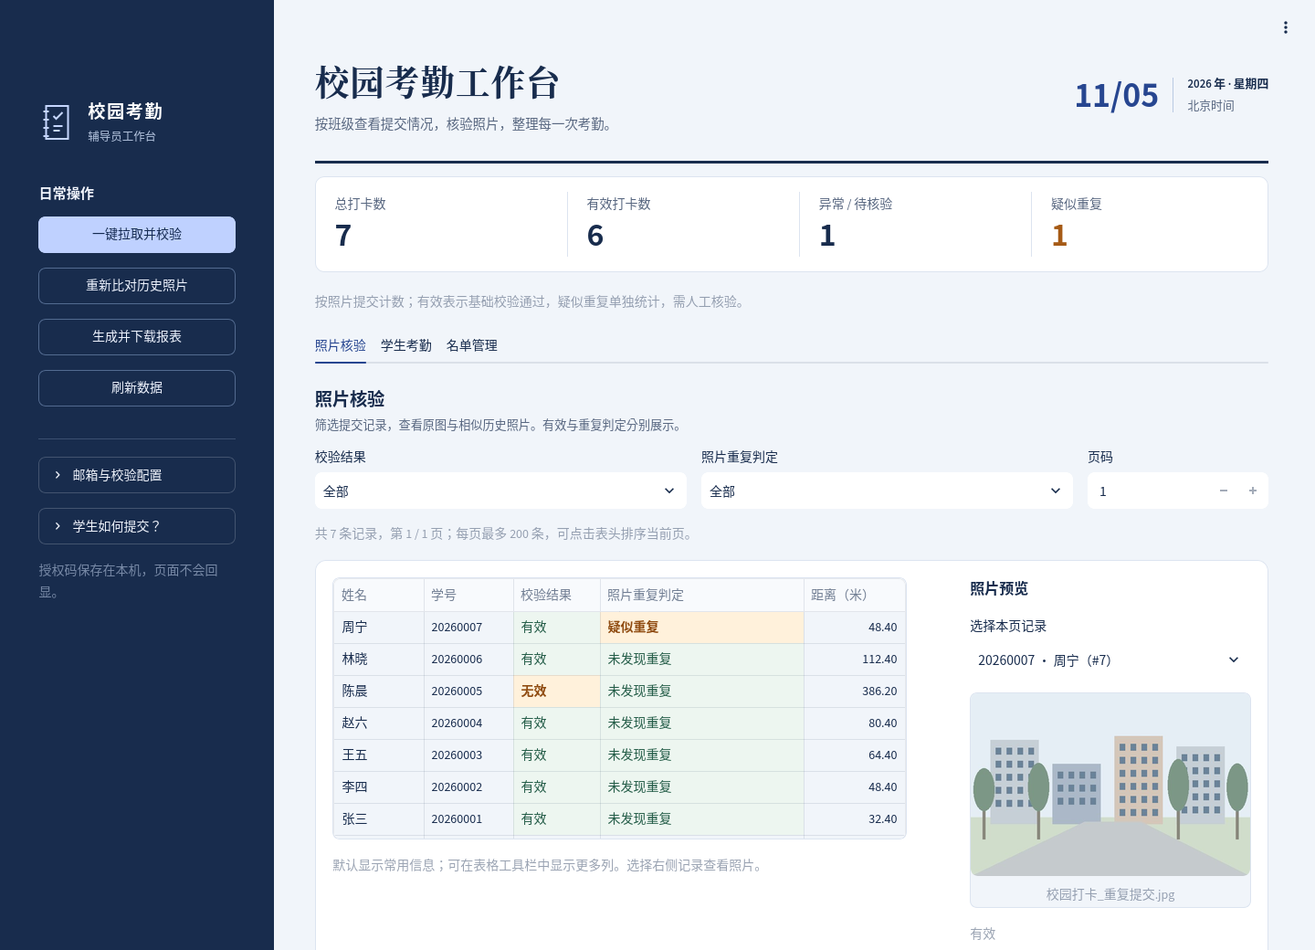
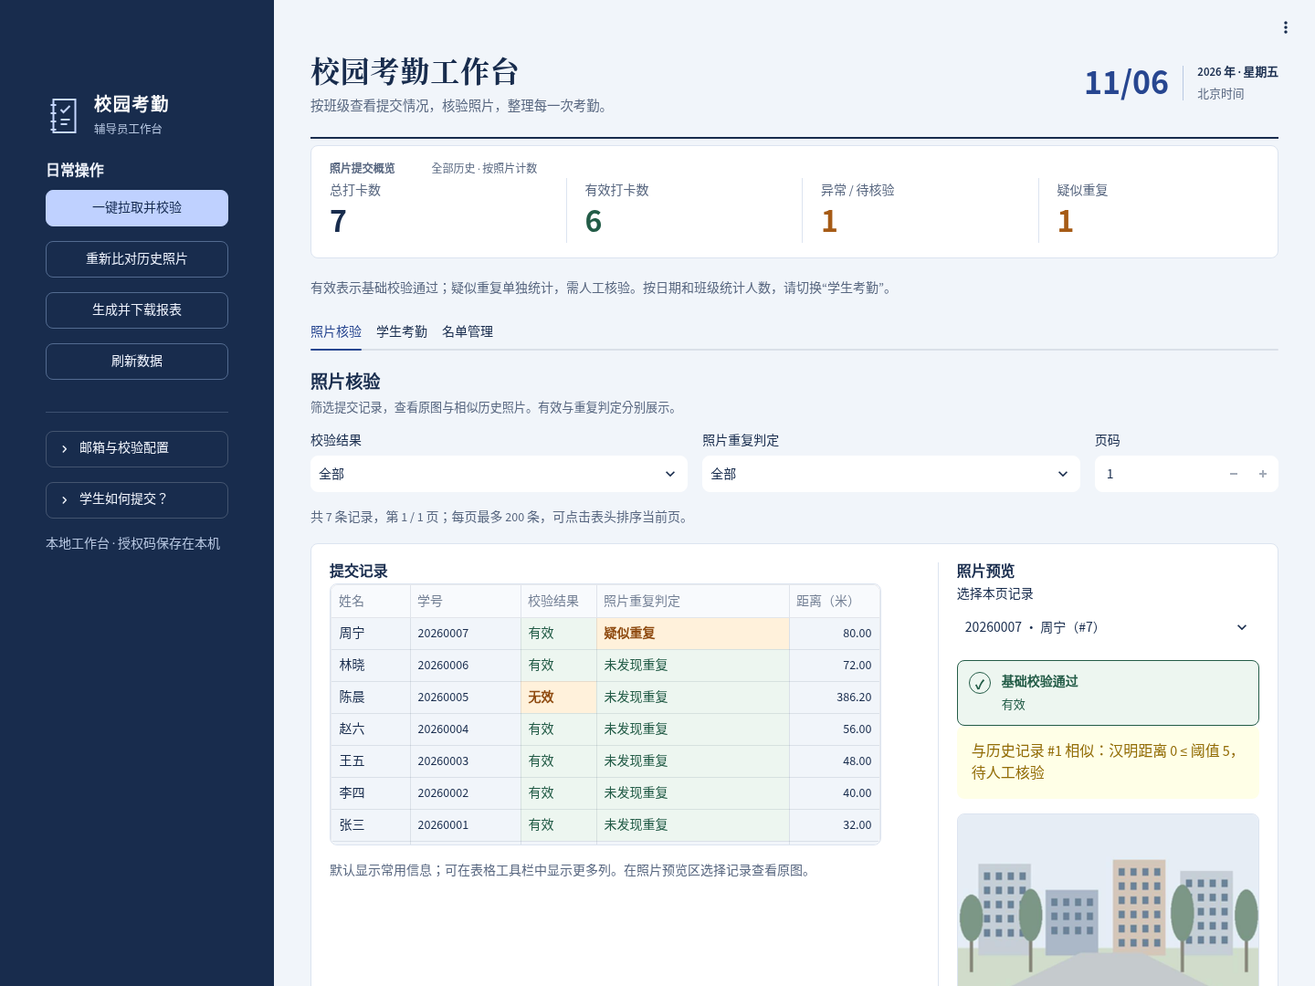
完善 UI 界面

diff --git a/assets/workspace.css b/assets/workspace.css
@@ -7,6 +7,11 @@
   --attendance-muted: #586780;
   --attendance-rule: #dce4f0;
   --attendance-amber: #a65b16;
+  --attendance-success: #235c47;
+  --attendance-success-bg: #edf6f0;
+  --attendance-warning-bg: #fff5e6;
+  --attendance-focus: #5276c4;
+  --attendance-radius: .5rem;
 }
 
 .stApp {
@@ -19,26 +24,26 @@
 }
 [data-testid="stMainBlockContainer"] {
   max-width: 1560px;
-  padding: 2.3rem 2.8rem 3rem;
+  padding: 2rem 2.5rem 3rem;
 }
 [data-testid="stHeader"] { background: var(--attendance-mist); }
 .attendance-masthead {
   display: flex;
   align-items: center;
   justify-content: space-between;
-  gap: 2rem;
-  padding: .4rem 0 1.7rem;
-  border-bottom: 3px solid var(--attendance-ink);
-  margin-bottom: .65rem;
+  gap: 1.5rem;
+  padding: .25rem 0 1.25rem;
+  border-bottom: 2px solid var(--attendance-ink);
+  margin-bottom: .25rem;
 }
 .attendance-masthead h1 {
   font-family: "Noto Serif CJK SC", "Source Han Serif SC", "Songti SC", SimSun, serif;
-  font-size: clamp(1.7rem, 2.8vw, 2.35rem);
+  font-size: clamp(1.5rem, 2.5vw, 2rem);
   line-height: 1.5;
   font-weight: 650;
   letter-spacing: .025em;
   padding: 0;
-  margin: 0 0 .45rem;
+  margin: 0 0 .25rem;
 }
 .attendance-masthead p { color: var(--attendance-muted); margin: 0; font-size: .9rem; line-height: 1.8; }
 .attendance-date {
@@ -61,33 +66,49 @@
 .attendance-section-heading { margin: .45rem 0 .75rem; }
 .attendance-section-heading h2 { font-size: 1.2rem; font-weight: 650; margin: 0 0 .3rem; padding: 0; }
 .attendance-section-heading p { font-size: .82rem; color: var(--attendance-muted); line-height: 1.8; margin: 0; max-width: 70ch; }
+.attendance-panel-title { font-size: 1rem !important; font-weight: 650; margin: 0; padding: 0 0 .25rem !important; }
+.attendance-overview-heading { display: flex; flex-wrap: wrap; align-items: baseline; gap: .25rem 1rem; }
+.attendance-overview-heading h2 { font-size: .9rem; margin: 0; padding: 0; font-weight: 650; }
+.attendance-overview-heading span { color: var(--attendance-muted); font-size: .75rem; }
 
 /* 概览是一个连续的数据带，避免每个数字各占一张卡片。 */
 .st-key-overview {
-  padding: 1rem 1.3rem;
+  padding: 1rem 1.25rem;
   background: var(--attendance-paper);
   border: 1px solid var(--attendance-rule);
-  border-radius: 10px;
+  border-radius: var(--attendance-radius);
   margin: .2rem 0 .3rem;
 }
-.st-key-overview [data-testid="stColumn"] + [data-testid="stColumn"] { border-left: 1px solid var(--attendance-rule); padding-left: 1.3rem; }
+.st-key-overview [data-testid="stColumn"] + [data-testid="stColumn"] { border-left: 1px solid var(--attendance-rule); padding-left: 1.25rem; }
 [data-testid="stMetricLabel"] { color: var(--attendance-muted); font-size: .82rem; }
 [data-testid="stMetricValue"] { font-variant-numeric: tabular-nums; font-size: 2rem; font-weight: 600; line-height: 1.35; }
-.st-key-overview [data-testid="stColumn"]:last-child [data-testid="stMetricValue"] { color: var(--attendance-amber); }
+.st-key-overview [data-testid="stColumn"]:nth-child(2) [data-testid="stMetricValue"] { color: var(--attendance-success); }
+.st-key-overview [data-testid="stColumn"]:nth-child(n+3) [data-testid="stMetricValue"] { color: var(--attendance-amber); }
+.st-key-student_metrics { background: var(--attendance-paper); border: 1px solid var(--attendance-rule); border-radius: var(--attendance-radius); padding: 1rem 1.25rem; }
+.st-key-student_metrics > [data-testid="stLayoutWrapper"] + [data-testid="stLayoutWrapper"] { border-top: 1px solid var(--attendance-rule); padding-top: 1rem; }
+.st-key-student_metrics [data-testid="stMetricValue"] { font-size: 1.75rem; }
 [data-testid="stCaptionContainer"], [data-testid="stCaptionContainer"] p { color: var(--attendance-muted); line-height: 1.7; }
+[data-testid="stCaptionContainer"] { opacity: 1; }
 [data-testid="stTabs"] [data-baseweb="tab-list"] { gap: 1.7rem; background: transparent; }
 [data-testid="stTabs"] [data-baseweb="tab"] { padding: .7rem .2rem .85rem; height: auto; font-weight: 600; }
 [data-testid="stTabs"] [data-baseweb="tab"] p { font-size: .97rem; }
-[data-testid="stTabs"] [role="tabpanel"] { padding-top: 1.25rem; }
+[data-testid="stTabs"] [role="tabpanel"] { padding-top: 1rem; }
 .st-key-record_workspace {
   background: var(--attendance-paper);
-  padding: 1.15rem;
+  padding: 1.25rem;
   border-color: var(--attendance-rule);
-  border-radius: 12px;
+  border-radius: var(--attendance-radius);
 }
-.st-key-photo_review { padding-left: .45rem; }
+.st-key-photo_review { padding-left: 1.25rem; border-left: 1px solid var(--attendance-rule); }
 .st-key-photo_review [data-testid="stImage"] { background: var(--attendance-mist); border: 1px solid var(--attendance-rule); border-radius: 8px; overflow: hidden; }
-.st-key-photo_review [data-testid="stImage"] img { max-height: 320px; object-fit: contain; }
+.st-key-photo_review [data-testid="stImage"] img { max-height: 400px; object-fit: contain; }
+.st-key-photo_review [data-testid="stImageCaption"] { overflow-wrap: anywhere; padding: .5rem; }
+.attendance-verdict { display: flex; align-items: flex-start; gap: .75rem; padding: .75rem; border: 1px solid currentColor; border-radius: var(--attendance-radius); overflow-wrap: anywhere; }
+.attendance-verdict-success { color: var(--attendance-success); background: var(--attendance-success-bg); }
+.attendance-verdict-warning { color: var(--attendance-amber); background: var(--attendance-warning-bg); }
+.attendance-verdict-symbol { display: grid; place-items: center; flex: 0 0 1.5rem; height: 1.5rem; border: 1px solid currentColor; border-radius: 50%; font-weight: 700; }
+.attendance-verdict strong { display: block; font-size: .875rem; line-height: 1.5; }
+.attendance-verdict p { margin: .25rem 0 0; font-size: .8125rem; line-height: 1.65; color: inherit; }
 .attendance-photo-empty {
   display: grid;
   place-items: center;
@@ -105,21 +126,22 @@
 [data-testid="stAlert"] { border-radius: 8px; }
 [data-testid="stExpander"] { border-color: var(--attendance-rule); border-radius: 8px; }
 button, input, select, textarea, [role="tab"], [role="combobox"] { scroll-margin-top: 5rem; }
-button:focus-visible, input:focus-visible, a:focus-visible, [role="tab"]:focus-visible {
-  outline: 3px solid #5276c4 !important;
+button:focus-visible, input:focus-visible, textarea:focus-visible, summary:focus-visible, a:focus-visible, [role="tab"]:focus-visible, [role="combobox"]:focus-visible {
+  outline: 3px solid var(--attendance-focus) !important;
   outline-offset: 3px;
 }
 
 /* 侧栏作为日常操作台；配置置后，输入依然使用原生可访问控件。 */
 [data-testid="stSidebar"] { background: var(--attendance-ink); border-right: none; }
-[data-testid="stSidebarUserContent"] { padding: 1.8rem 1.4rem 2rem; }
-.attendance-brand { display: flex; gap: .8rem; align-items: center; margin: .15rem 0 1.9rem; }
+[data-testid="stSidebarUserContent"] { padding: 1.5rem 1.25rem 2rem; }
+.attendance-brand { display: flex; gap: .75rem; align-items: center; margin: 0 0 1.5rem; }
 .attendance-brand-mark { color: #c6d7ff; width: 41px; height: 46px; flex-shrink: 0; }
 .attendance-brand strong { display: block; font-size: 1.2rem; font-weight: 650; letter-spacing: .08em; color: #ffffff; }
 .attendance-brand span { color: #b7c7e1; font-size: .78rem; display: block; margin-top: .15rem; }
 [data-testid="stSidebar"] [data-testid="stCaptionContainer"],
 [data-testid="stSidebar"] [data-testid="stCaptionContainer"] p { color: #b7c7e1; }
 [data-testid="stSidebar"] h3 { font-size: .95rem; font-weight: 600; }
+[data-testid="stSidebar"] .attendance-panel-title { margin-bottom: .5rem; }
 [data-testid="stSidebar"] hr { border-color: #3c5070; margin: 1.2rem 0; }
 [data-testid="stSidebar"] [data-testid="stExpander"] { border-color: #455a7c; background: transparent; }
 [data-testid="stSidebar"] [data-testid="stForm"] { border: 0; padding: 0; }
@@ -136,23 +158,26 @@ button:focus-visible, input:focus-visible, a:focus-visible, [role="tab"]:focus-v
   [data-testid="stMainBlockContainer"] { padding-left: 1.5rem; padding-right: 1.5rem; }
   .attendance-masthead { gap: 1rem; }
   .attendance-date-day { font-size: 2rem; }
-  .st-key-overview { padding: .9rem 1rem; }
-  .st-key-overview [data-testid="stColumn"] + [data-testid="stColumn"] { padding-left: .6rem; }
+  .st-key-overview { padding: 1rem; }
+  .st-key-overview [data-testid="stColumn"] + [data-testid="stColumn"] { padding-left: .5rem; }
+  .st-key-record_workspace > [data-testid="stLayoutWrapper"] > [data-testid="stHorizontalBlock"] { flex-wrap: wrap; }
+  .st-key-record_workspace > [data-testid="stLayoutWrapper"] > [data-testid="stHorizontalBlock"] > [data-testid="stColumn"] { flex: 1 1 100%; min-width: 100%; }
+  .st-key-photo_review { padding: 1rem 0 0; border-left: 0; border-top: 1px solid var(--attendance-rule); }
 }
 @media (max-width: 760px) {
   [data-testid="stMainBlockContainer"] { padding: 3.6rem 1rem 2rem; }
-  .attendance-masthead { align-items: flex-start; flex-direction: column; gap: 1rem; padding-bottom: 1.1rem; }
+  .attendance-masthead { align-items: flex-start; flex-direction: column; gap: 1rem; padding-bottom: 1rem; }
   .attendance-date-day { font-size: 1.7rem; }
   .attendance-date-detail { font-size: .75rem; }
-  .st-key-overview [data-testid="stHorizontalBlock"] { flex-wrap: wrap; gap: 1rem; }
-  .st-key-overview [data-testid="stColumn"] { flex: 1 1 calc(50% - 1rem); min-width: calc(50% - 1rem); }
+  .st-key-overview [data-testid="stHorizontalBlock"], .st-key-student_metrics [data-testid="stHorizontalBlock"] { flex-wrap: wrap; gap: 1rem; }
+  .st-key-overview [data-testid="stColumn"], .st-key-student_metrics [data-testid="stColumn"] { flex: 1 1 calc(50% - 1rem); min-width: calc(50% - 1rem); }
   .st-key-overview [data-testid="stColumn"] + [data-testid="stColumn"] { border-left: none; padding-left: 0; }
   [data-testid="stMetricValue"] { font-size: 1.7rem; }
   [data-testid="stTabs"] [data-baseweb="tab-list"] { gap: 1.1rem; }
-  .st-key-record_workspace { padding: .8rem; }
-  .st-key-record_workspace > [data-testid="stVerticalBlock"] > [data-testid="stHorizontalBlock"] { flex-wrap: wrap; }
-  .st-key-record_workspace > [data-testid="stVerticalBlock"] > [data-testid="stHorizontalBlock"] > [data-testid="stColumn"] { flex: 1 1 100%; min-width: 100%; }
-  .st-key-photo_review { padding-left: 0; }
+  .st-key-record_workspace { padding: .75rem; }
+  [data-testid="stMetricLabel"] p { white-space: normal; }
+  [data-testid="stTabs"] [data-baseweb="tab"] { min-height: 44px; }
+  [data-testid="stSidebar"] { max-width: calc(100vw - 2rem); }
 }
 @media (prefers-reduced-motion: reduce) {
   *, *::before, *::after { animation: none !important; transition: none !important; scroll-behavior: auto !important; }

diff --git a/app.py b/app.py
@@ -18,7 +18,7 @@ from src.report_generator import generate_report, generate_student_attendance_re
 from src.photo_deduplicator import validate_threshold
 from src.web_helpers import safe_photo_path
 from src.student_roster import parse_student_roster
-from src.ui import load_styles, masthead, photo_placeholder, section_heading, sidebar_brand, styled_statuses
+from src.ui import load_styles, masthead, photo_placeholder, photo_verdict, section_heading, sidebar_brand, styled_statuses
 
 
 WORK_DIR = Path(os.environ.get("ATTENDANCE_WORK_DIR", Path(__file__).resolve().parent)).resolve()
@@ -64,7 +64,7 @@ def settings_panel():
             start = st.text_input("窗口开始", value=business["attendance_start"], placeholder="2026-11-05T08:00:00+08:00")
             end = st.text_input("窗口结束", value=business["attendance_end"], placeholder="2026-11-05T10:00:00+08:00")
             photo_tz = st.text_input("照片默认时区", value=business["photo_timezone"])
-            st.caption("开始与结束均留空时，校验照片软件信息及坐标。")
+            st.caption("请填写完整日期、时间及时区，例如 2026-11-06T08:00:00+08:00。开始与结束均留空可关闭拍摄时间校验。")
         save = st.form_submit_button("保存配置", use_container_width=True)
     st.caption("新配置用于后续新提交，已有校验结果不会重新计算。")
     if save:
@@ -86,7 +86,7 @@ def sidebar(store):
     with st.sidebar:
         sidebar_brand()
 
-        st.subheader("日常操作")
+        st.markdown('<h2 class="attendance-panel-title">日常操作</h2>', unsafe_allow_html=True)
         if st.button("一键拉取并校验", type="primary", use_container_width=True, disabled=store is None):
             progress = None
             try:
@@ -156,7 +156,7 @@ def sidebar(store):
         with st.expander("学生如何提交？"):
             st.write("邮件主题填写“姓名+学号”，例如 张三+0020230001，附上 JPG/JPEG 原图。")
             st.caption("请发送原图，聊天软件压缩或截图可能丢失定位和拍摄时间。")
-        st.caption("授权码保存在本机，页面不会回显。")
+        st.caption("本地工作台 · 授权码保存在本机")
 
 
 def roster_import(store):
@@ -234,18 +234,21 @@ def student_statistics(store):
                                   format_func=lambda value: "全部班级" if value is None else value or "未分班")
     result = store.student_attendance(day.isoformat(), class_name=selected_class)
     stats = result["statistics"]
-    for column, label, key in zip(st.columns(5), ("名单人数", "已提交人数", "校验通过人数", "待核验人数", "未提交人数"),
-                                  ("total", "submitted", "passed", "pending", "missing")):
-        column.metric(label, stats[key])
-    for column, label, key in zip(st.columns(3), ("老师代签人数", "请假人数", "出勤人数（含代签）"),
-                                  ("signed", "leave", "present")):
-        column.metric(label, stats[key])
-    st.caption("按北京时间收件日期统计，单位为学生；同一学生多张照片只计一人。姓名须与名单一致，至少一张照片通过基础校验才计为通过。")
-    st.caption("姓名不匹配或照片未通过归入待核验；照片重复与 pHash 结果仍在打卡记录中单独展示。")
-    st.caption("老师代签计为出勤，请假单独统计；两者均不再计入未提交或待核验。已提交人数仅表示收到照片。")
+    with st.container(key="student_metrics"):
+        for column, label, key in zip(st.columns(5), ("名单人数", "已提交人数", "校验通过人数", "待核验人数", "未提交人数"),
+                                      ("total", "submitted", "passed", "pending", "missing")):
+            column.metric(label, stats[key])
+        for column, label, key in zip(st.columns(3), ("老师代签人数", "请假人数", "出勤人数（含代签）"),
+                                      ("signed", "leave", "present")):
+            column.metric(label, stats[key])
+    st.caption(f"统计范围：{day:%Y年%m月%d日} · {(selected_class or '未分班') if selected_class is not None else '全部班级'} · 按学生人数统计")
+    with st.expander("考勤人数如何计算？"):
+        st.write("按北京时间收件日期统计，单位为学生；同一学生多张照片只计一人。姓名须与名单一致，至少一张照片通过基础校验才计为通过。")
+        st.write("姓名不匹配或照片未通过归入待核验；照片重复判定仍在照片核验中单独展示。")
+        st.write("老师代签计为出勤，请假单独统计；两者均不再计入未提交或待核验。已提交人数仅表示收到照片。")
     teacher_attendance_panel(store, day, result["students"])
     if result["classes"]:
-        st.markdown("**班级汇总**")
+        st.markdown('<h3 class="attendance-panel-title">班级汇总</h3>', unsafe_allow_html=True)
         class_frame = pd.DataFrame(result["classes"])
         class_frame["class_name"] = class_frame["class_name"].replace("", "未分班")
         st.dataframe(class_frame.rename(columns={"class_name": "班级", "total": "名单人数", "submitted": "已提交人数",
@@ -288,11 +291,12 @@ def overview(store):
     with st.spinner("正在读取考勤数据…"):
         stats = store.statistics()
     with st.container(key="overview"):
+        st.markdown('<div class="attendance-overview-heading"><h2>照片提交概览</h2><span>全部历史 · 按照片计数</span></div>', unsafe_allow_html=True)
         metrics = st.columns(4)
         for column, label, key in zip(metrics[:3], ("总打卡数", "有效打卡数", "异常 / 待核验"), ("total", "valid", "invalid")):
             column.metric(label, stats[key])
         metrics[3].metric("疑似重复", store.count_records(duplicate_status="疑似重复"))
-    st.caption("按照片提交计数；有效表示基础校验通过，疑似重复单独统计，需人工核验。")
+    st.caption("有效表示基础校验通过；疑似重复单独统计，需人工核验。按日期和班级统计人数，请切换“学生考勤”。")
 
 
 def dashboard(store):
@@ -322,8 +326,9 @@ def dashboard(store):
             st.info("还没有打卡记录。请在左侧保存邮箱配置，收到学生照片后点击“一键拉取并校验”。")
         return
     with st.container(key="record_workspace", border=True):
-        table, preview = st.columns([1.9, 1], gap="large")
+        table, preview = st.columns([1.65, 1], gap="large")
         with table:
+            st.markdown('<h3 class="attendance-panel-title">提交记录</h3>', unsafe_allow_html=True)
             frame = pd.DataFrame(rows)
             frame["校验结果"] = frame["is_valid"].map({True: "有效", False: "无效"})
             names = {"id": "编号", "student_id": "学号", "student_name": "姓名", "email_time": "收件时间",
@@ -347,7 +352,7 @@ def dashboard(store):
                                         "学号": st.column_config.TextColumn(width=110)})
             st.caption("默认显示常用信息；可在表格工具栏中显示更多列。在照片预览区选择记录查看原图。")
         with preview, st.container(key="photo_review"):
-            st.markdown("**照片预览**")
+            st.markdown('<h3 class="attendance-panel-title">照片预览</h3>', unsafe_allow_html=True)
             record_ids = [row["id"] for row in rows]
             if st.session_state.get("photo_record") not in record_ids:
                 st.session_state["photo_record"] = record_ids[0]
@@ -355,6 +360,9 @@ def dashboard(store):
                                        format_func=lambda value: next(f"{row['student_id']} · {row['student_name']}（#{value}）"
                                                                       for row in rows if row["id"] == value))
             selected = next(row for row in rows if row["id"] == selected_id)
+            photo_verdict(selected["is_valid"], selected["reason"])
+            if selected["duplicate_status"] in ("疑似重复", "校验异常"):
+                st.warning(selected["duplicate_reason"])
             photo = safe_photo_path(selected.get("photo_path"), WORK_DIR)
             if photo is None:
                 photo_placeholder()
@@ -362,10 +370,10 @@ def dashboard(store):
             else:
                 try:
                     with st.spinner("正在加载照片…"):
-                        st.image(str(photo), caption=selected["photo_name"], width="stretch")
+                        st.image(str(photo), caption=selected["photo_name"], width="stretch",
+                                 alt=f"{selected['student_name']}提交的考勤照片：{selected['photo_name']}")
                 except Exception as error:
                     show_error("照片预览", error)
-            st.caption(selected["reason"])
             with st.expander("查看照片校验详情"):
                 st.write("照片：", selected["photo_name"])
                 st.write("软件校验：", selected["software_check"])
@@ -375,8 +383,6 @@ def dashboard(store):
                 st.caption(f"照片指纹：{selected['photo_phash'] or '未计算'}")
             if selected.get("phash_status") == "校验异常":
                 st.warning(selected.get("phash_reason") or "pHash 计算异常，请人工核验。")
-            if selected["duplicate_status"] in ("疑似重复", "校验异常"):
-                st.warning(selected["duplicate_reason"])
             if selected.get("duplicate_record_id") is not None:
                 related = store.get_record(selected["duplicate_record_id"])
                 if related is None:
@@ -391,7 +397,8 @@ def dashboard(store):
                     else:
                         try:
                             with st.spinner("正在加载相似历史照片…"):
-                                st.image(str(related_photo), caption=related["photo_name"], width="stretch")
+                                st.image(str(related_photo), caption=related["photo_name"], width="stretch",
+                                         alt=f"关联历史考勤照片：{related['photo_name']}")
                         except Exception as error:
                             show_error("历史照片预览", error)
 

diff --git a/src/ui.py b/src/ui.py
@@ -46,6 +46,15 @@ def photo_placeholder():
       </svg>暂无可用照片</div></div>""", unsafe_allow_html=True)
 
 
+def photo_verdict(valid, reason):
+    """用文字、图形与颜色共同展示选中照片的基础校验结果。"""
+    tone, symbol, label = ("success", "✓", "基础校验通过") if valid else ("warning", "!", "需要人工核验")
+    st.markdown(f'<div class="attendance-verdict attendance-verdict-{tone}" role="status">'
+                f'<span class="attendance-verdict-symbol" aria-hidden="true">{symbol}</span>'
+                f'<div><strong>{label}</strong><p>{escape(reason or "请查看照片校验详情")}</p></div></div>',
+                unsafe_allow_html=True)
+
+
 def status_style(value):
     """表格颜色是文字状态的补充，保留文本以便色觉异常用户辨识。"""
     if value in ("疑似重复", "校验异常", "无效", "未提交", "未通过", "姓名不匹配"):

diff --git a/docs/FRONTEND_DESIGN.md b/docs/FRONTEND_DESIGN.md
@@ -63,14 +63,33 @@
 
 ## 验证与复核
 
-现有 85 项测试覆盖邮件拉取、配置保存、名单与班级筛选、分页、报表和照片关联预览。
-使用独立的 `/tmp` 示例数据库进行 Firefox 实际浏览器检查，不把示例数据导入实际数据库。
+现有 95 项测试覆盖邮件拉取、配置保存、名单与班级筛选、分页、报表和照片关联预览。
+使用独立的 `/tmp` 示例数据库与隔离的 Edge 无头浏览器检查，不把示例数据导入实际数据库。
 示例截图中的姓名、名册和校园插图均为测试内容。
 
-桌面检查宽度 1440px，手机检查宽度 390px，页面均无横向溢出和 Streamlit 页面异常。
-首次手机截图发现页头被工具条遮挡，已增加顶部间距；复核后标题位置为距顶部 80px。
-手机表格和照片工作区按上下顺序排列，保留区域内表格滚动。
-说明文字实测颜色为 `#586780`，侧栏说明为 `#B7C7E1`；键盘 Tab 焦点可见。
+检查宽度为 320、768、1024、1440px，页面均无横向溢出和浏览器脚本错误。
+桌面显示表格与照片双栏；平板及手机改为上下排列，手机概览与人数指标排成两列。
+实际操作验证了异常筛选、空结果、班级切换、说明折叠、手机侧栏与配置表单。
+Tab 键可移动到带标签的筛选控件，焦点轮廓为 3px。
+照片核验、学生考勤、名单管理与手机配置表单通过 axe WCAG 2.1 AA 规则扫描；
+自动检查不替代人工读屏验证。
+
+修正了 Streamlit 默认 caption 透明度叠加导致的对比度不足。
+说明文字使用 `#586780`，侧栏说明使用 `#B7C7E1`，透明度设为 1。
+照片与关联历史照片提供替代文字；为使用原生 `st.image(alt=...)`，Streamlit 最低版本调整为 1.66。
+旧环境需重新执行 `.venv/bin/python -m pip install -r requirements.txt`。
 不使用自动播放动效，并尊重 `prefers-reduced-motion`。
 
 [桌面照片核验预览](previews/workspace-desktop.png) · [学生考勤预览](previews/workspace-students.png) · [手机预览](previews/workspace-mobile.png)
+
+## 本次展示优化约定
+
+延续现有蓝白工作台，不引入外部参考站点、字体或图片服务。以现有照片核验、学生考勤和名单管理三屏为参考：
+照片核验保留筛选与表格并排预览，学生考勤将八项指标分为提交统计与人工登记，名单管理保留模板导入流程。
+
+- 页面任务：帮助老师迅速发现异常、查看照片和确认班级提交情况。主要操作保持“一键拉取并校验”。
+- 信息层级：历史照片总览明确计数范围；选中照片的校验结果与原因放在原图上方；人数统计与照片统计明确区分。
+- 视觉：使用既有深墨蓝、校务蓝、提醒琥珀与通过绿；浅色工作区、细边框、8px 控件圆角；间距使用 4px 倍数。
+- 窄屏：桌面保留记录与原图双栏；工作区不足时改为上下排列。指标在手机上排成两列，表格只在自身区域内滚动。
+- 状态：保留原生加载、成功、错误、空结果提示；基础校验状态使用文字、符号和颜色共同表达；保留疑似重复的独立提示。
+- 可访问性：沿用原生输入控件，保留键盘焦点、侧栏展开入口和表格工具栏；不隐藏操作标签，不使用装饰动效或大幅宣传区。
